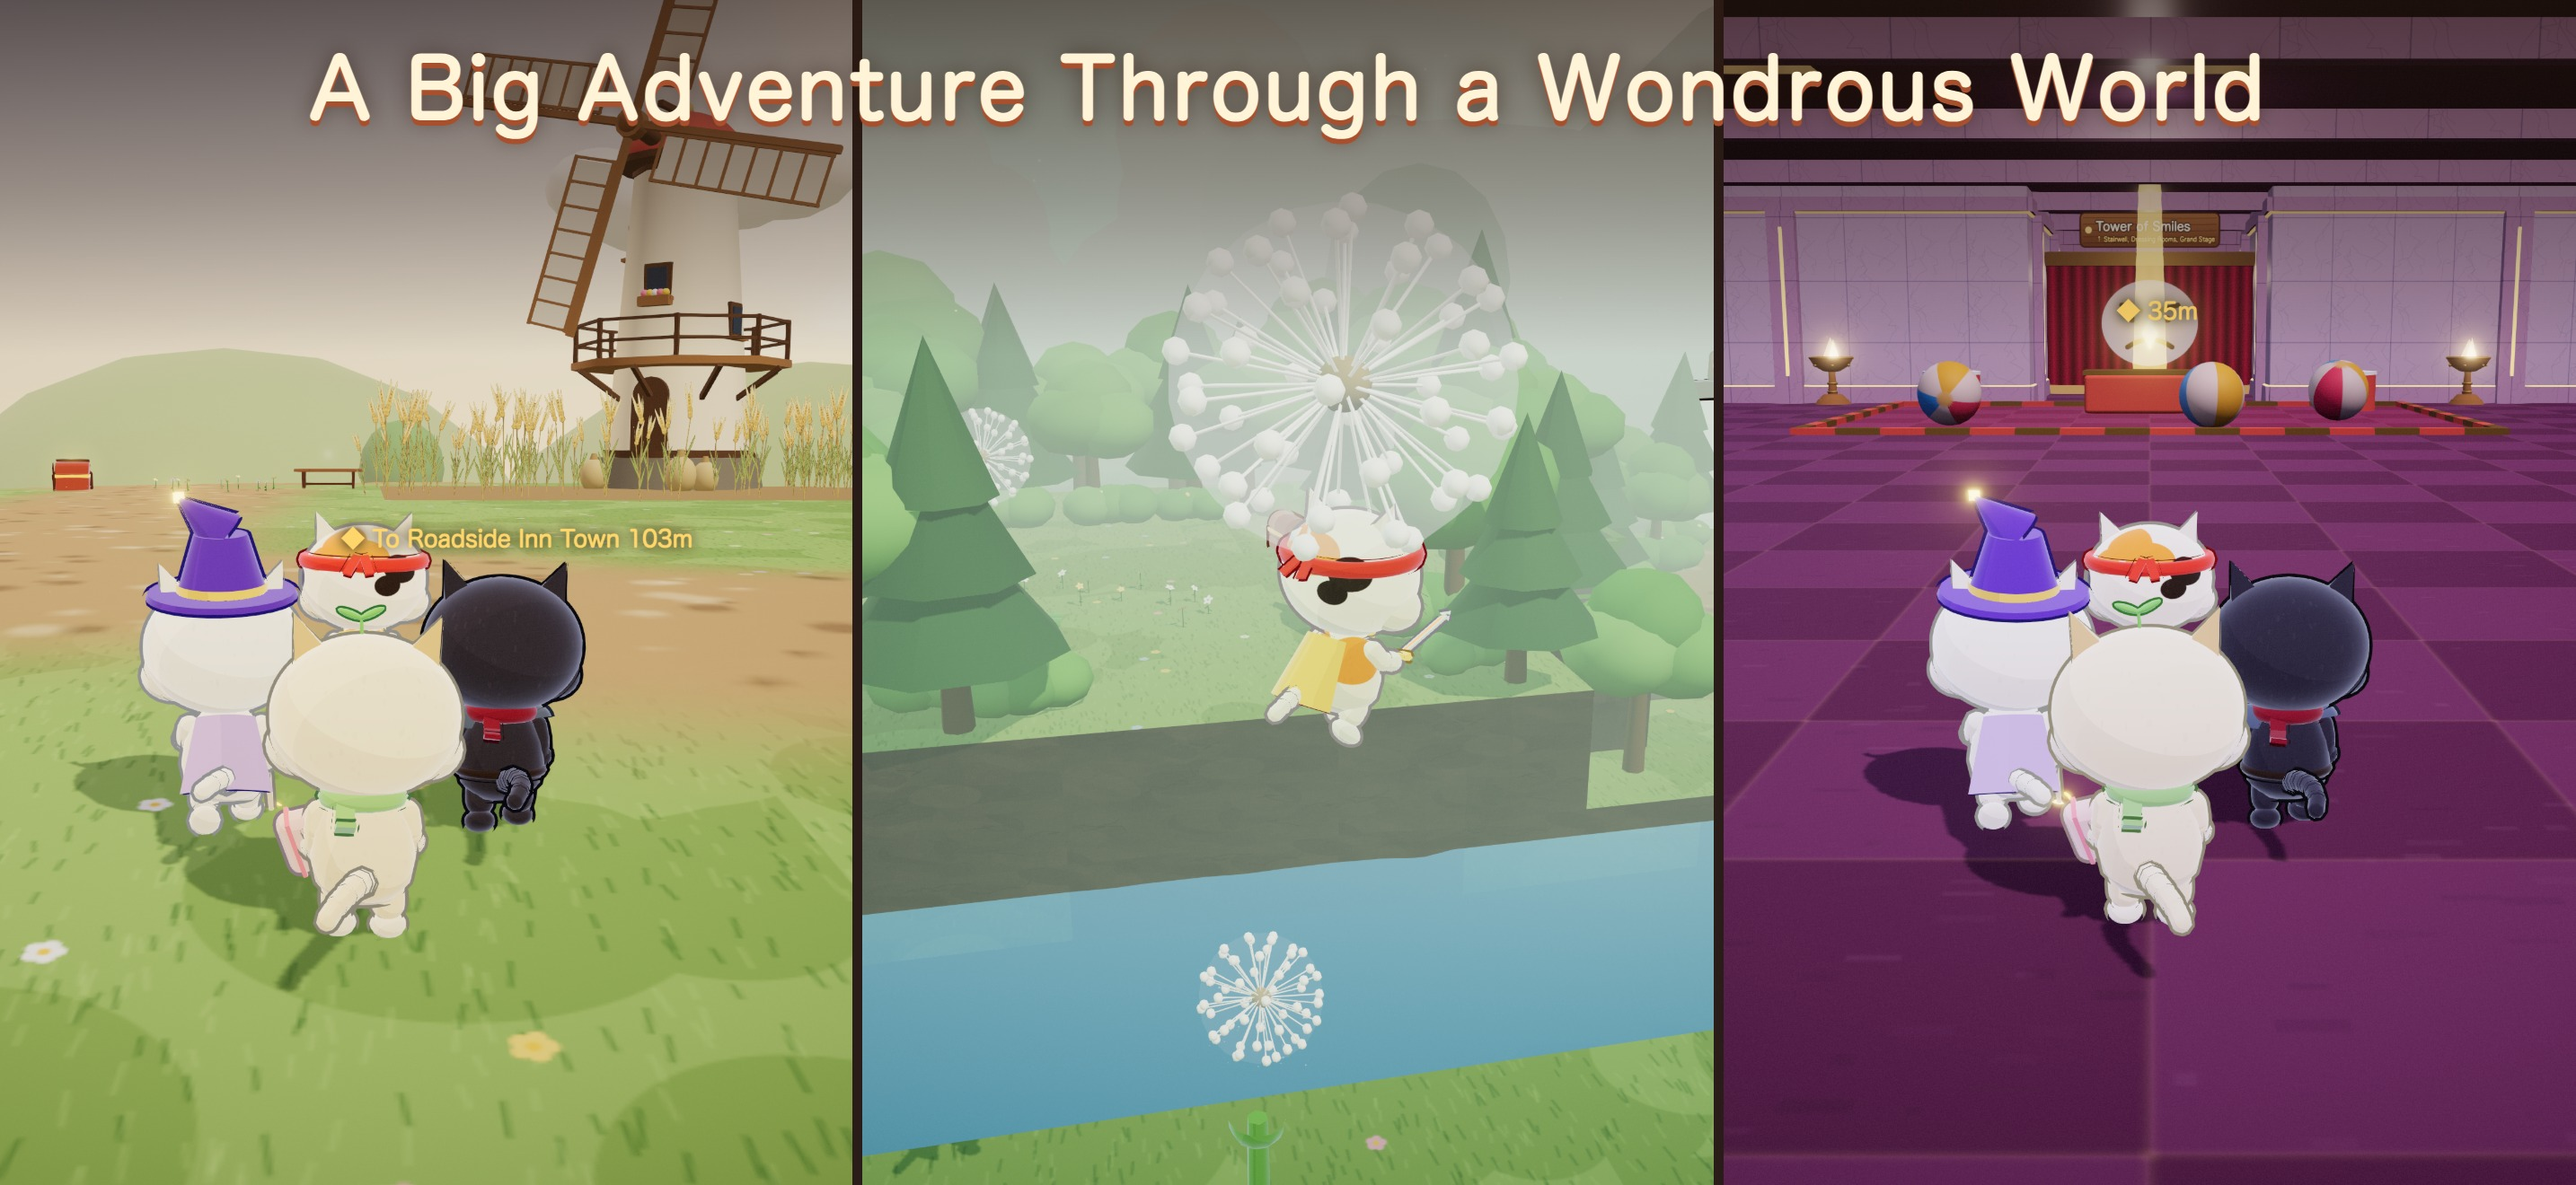
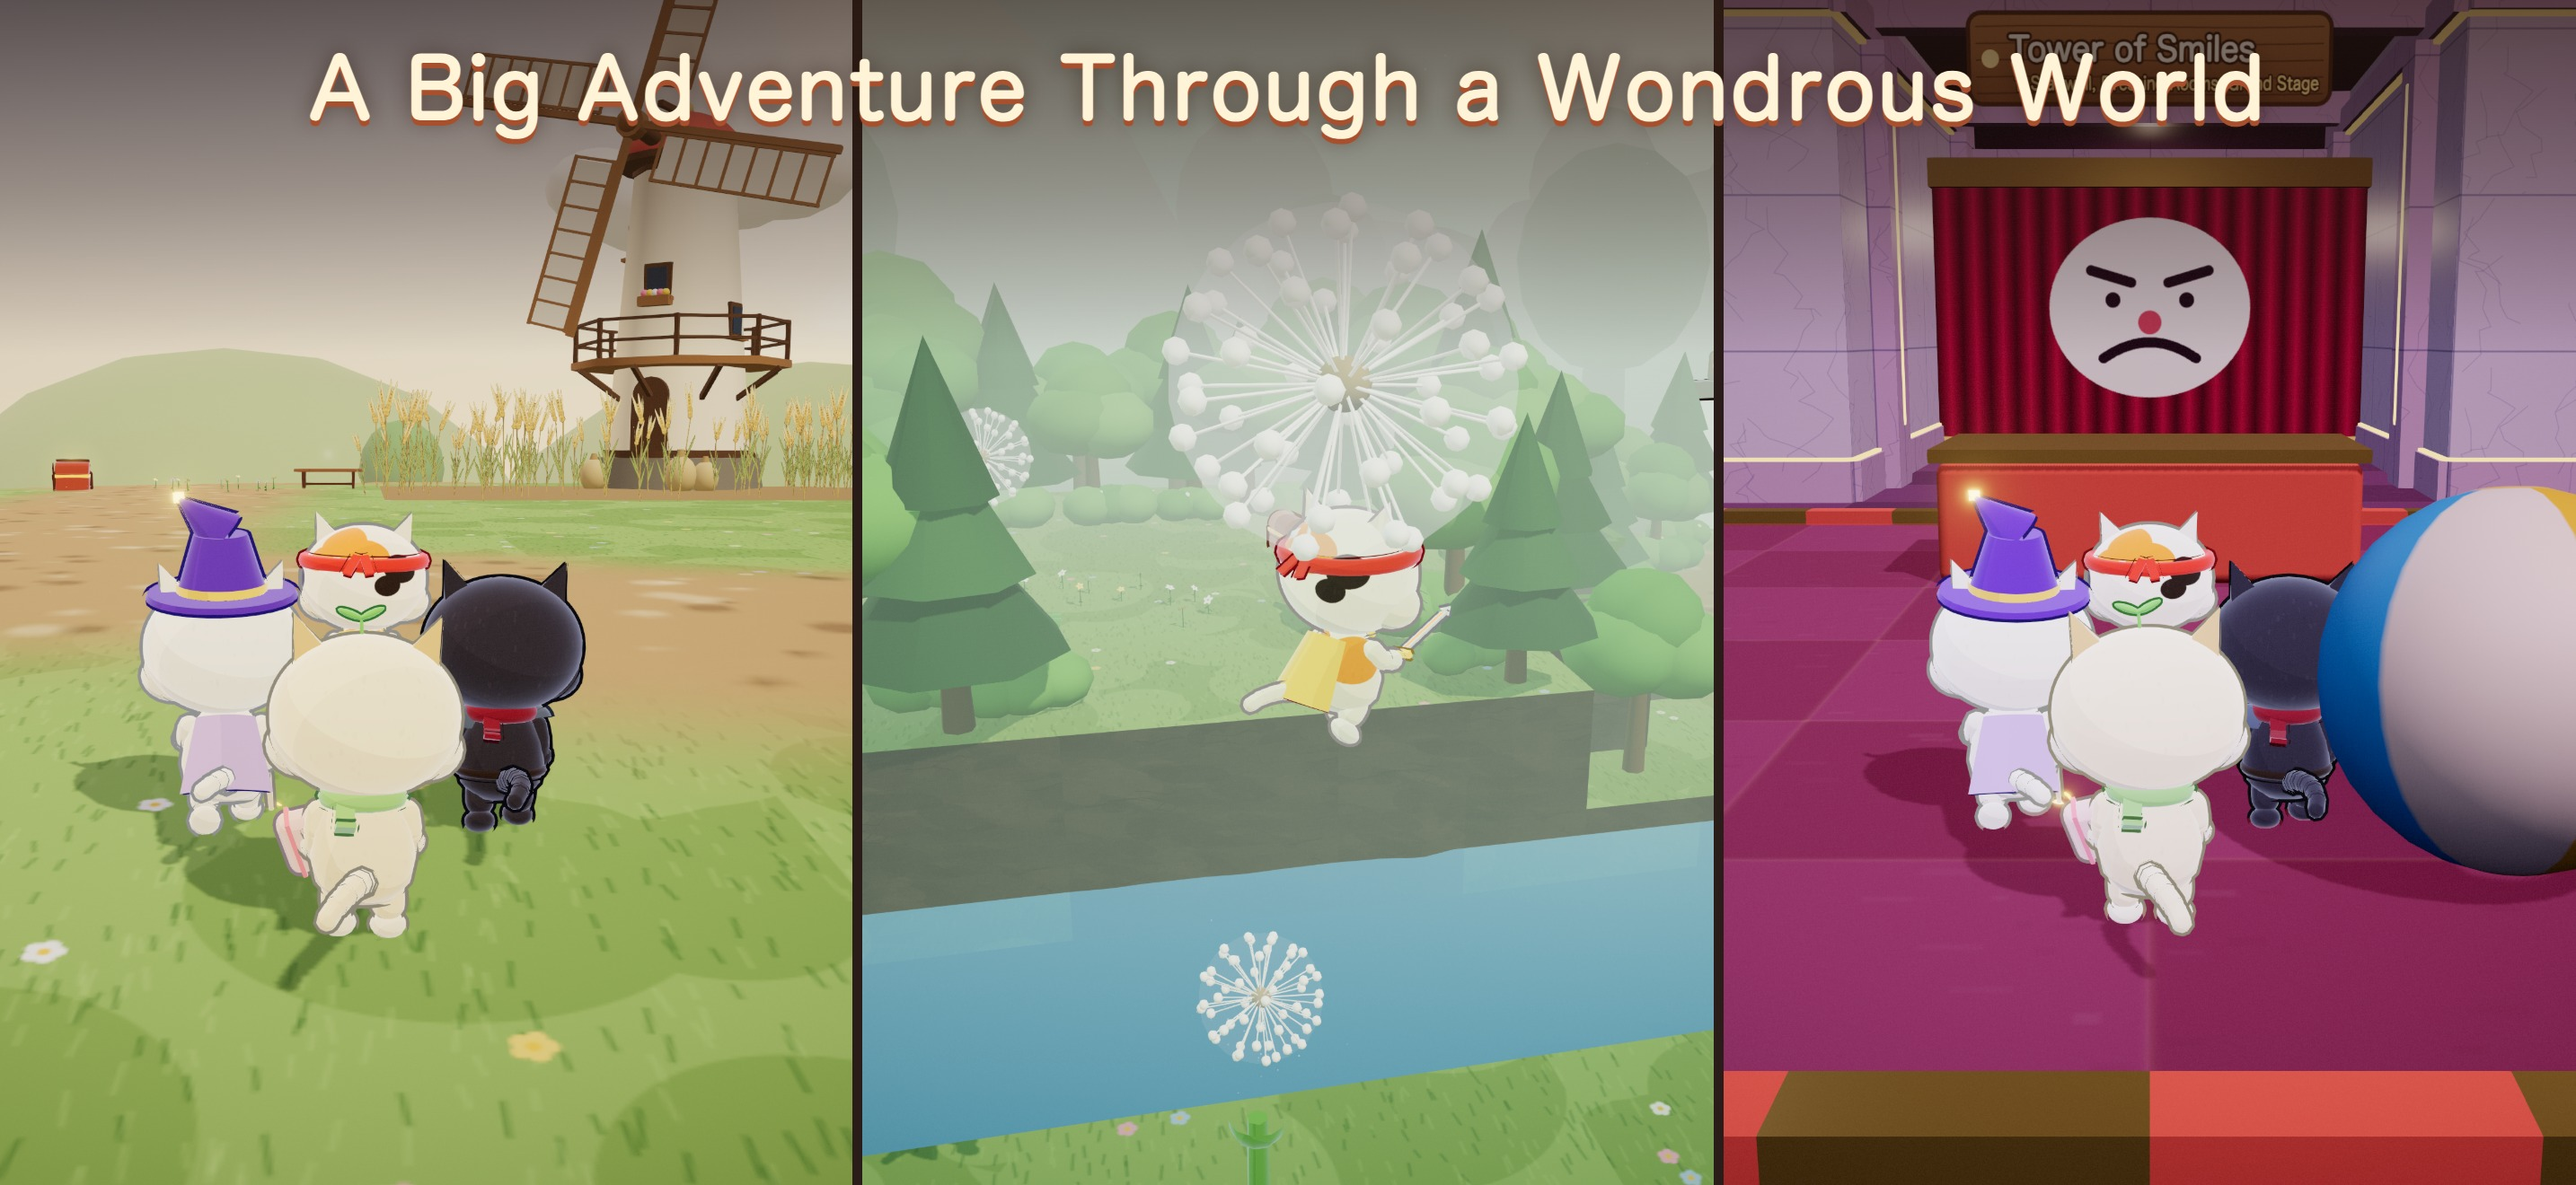
fix: 冒険のスクショで、笑顔の塔のむすっと幕を近くから写し、目的地の光の柱を隠す
目的地の光の柱と距離の札が舞台のむすっと幕の前に立って見えず、幕も遠かったため。冒険の 3 列は、目的地の光の柱と札（風車の画の「街道の宿場へ」も）を隠して撮り、塔は大ロビーの玉のりの玉のあいだ（幕の手前）から撮る。

diff --git a/ios/AppStore.md b/ios/AppStore.md
@@ -186,7 +186,7 @@ iPhone 6.9 インチ（横 2868×1320）を 3〜10 枚。`ios/screenshots/` の 
 | ファイル | 中身 | 見出し |
 | --- | --- | --- |
 | 01-combo | 古代遺跡・外庭で、ミケとクロのコンボ技「にゃんこブレイク」の二つの斬撃が、石のねこ像の前で X に重なったところ | 仲間とのコンボ技 |
-| 02-field | 冒険の 3 か所を縦に 3 つ並べる：ミャオ街道・丘の風車と麦畑へ歩く 4 匹、まどろみの林で綿毛につかまってねむり川を越えるところ、笑顔の塔 1F の玉と幕の舞台のある大ロビーへ歩く 4 匹（地名・目的・仲間の顔のアイコンは隠す） | かわいいにゃんこと不思議な世界を大冒険 |
+| 02-field | 冒険の 3 か所を縦に 3 つ並べる：ミャオ街道・丘の風車と麦畑へ歩く 4 匹、まどろみの林で綿毛につかまってねむり川を越えるところ、笑顔の塔 1F の大ロビーで、玉のりの玉のあいだを、むすっと幕の舞台へ歩く 4 匹（地名・目的・仲間の顔のアイコンと、目的地の光の柱・距離の札は隠す） | かわいいにゃんこと不思議な世界を大冒険 |
 | 03-yoroi | くろねこ谷で、ミケの番に「勇者のつるぎ」でさまよう鎧を狙うコマンド選択（下の仲間・技のボタンを切らないよう、上を切る） | ターン制のコマンドバトル／弱点を狙って有利に導こう（2 行） |
 | 04-fit | おしゃれの 4 匹を縦に 4 つ並べる（ミケ：むぎわら帽子・はっぴ、クロ：シルクハット・タキシード、シロ：ベレー帽・まるメガネ、タマ：ピエロ） | 帽子にマントに服 おしゃれも楽しい |
 | 05-friends | 会話の 4 匹を 2×2 で 1 枚に。上の段はシロの名のり（第二章「自称・天才魔法使い」）とクロの「……もらう。」（第一章「空から来た黒猫」で魚をもう一匹すすめたとき。照れ顔）、下の段はミケの「すっごくおいしかったよ！」（第一章「魚どろぼう」）とタマの「……すぴー……。」（第二章「綿毛の上の子猫」、綿毛のてっぺんで寝ているところを、寄って下から見上げる）。上の段の 2 匹は見出しが重なるので、画面の下寄りに写す | ゆかいでくせの強い仲間たち |
